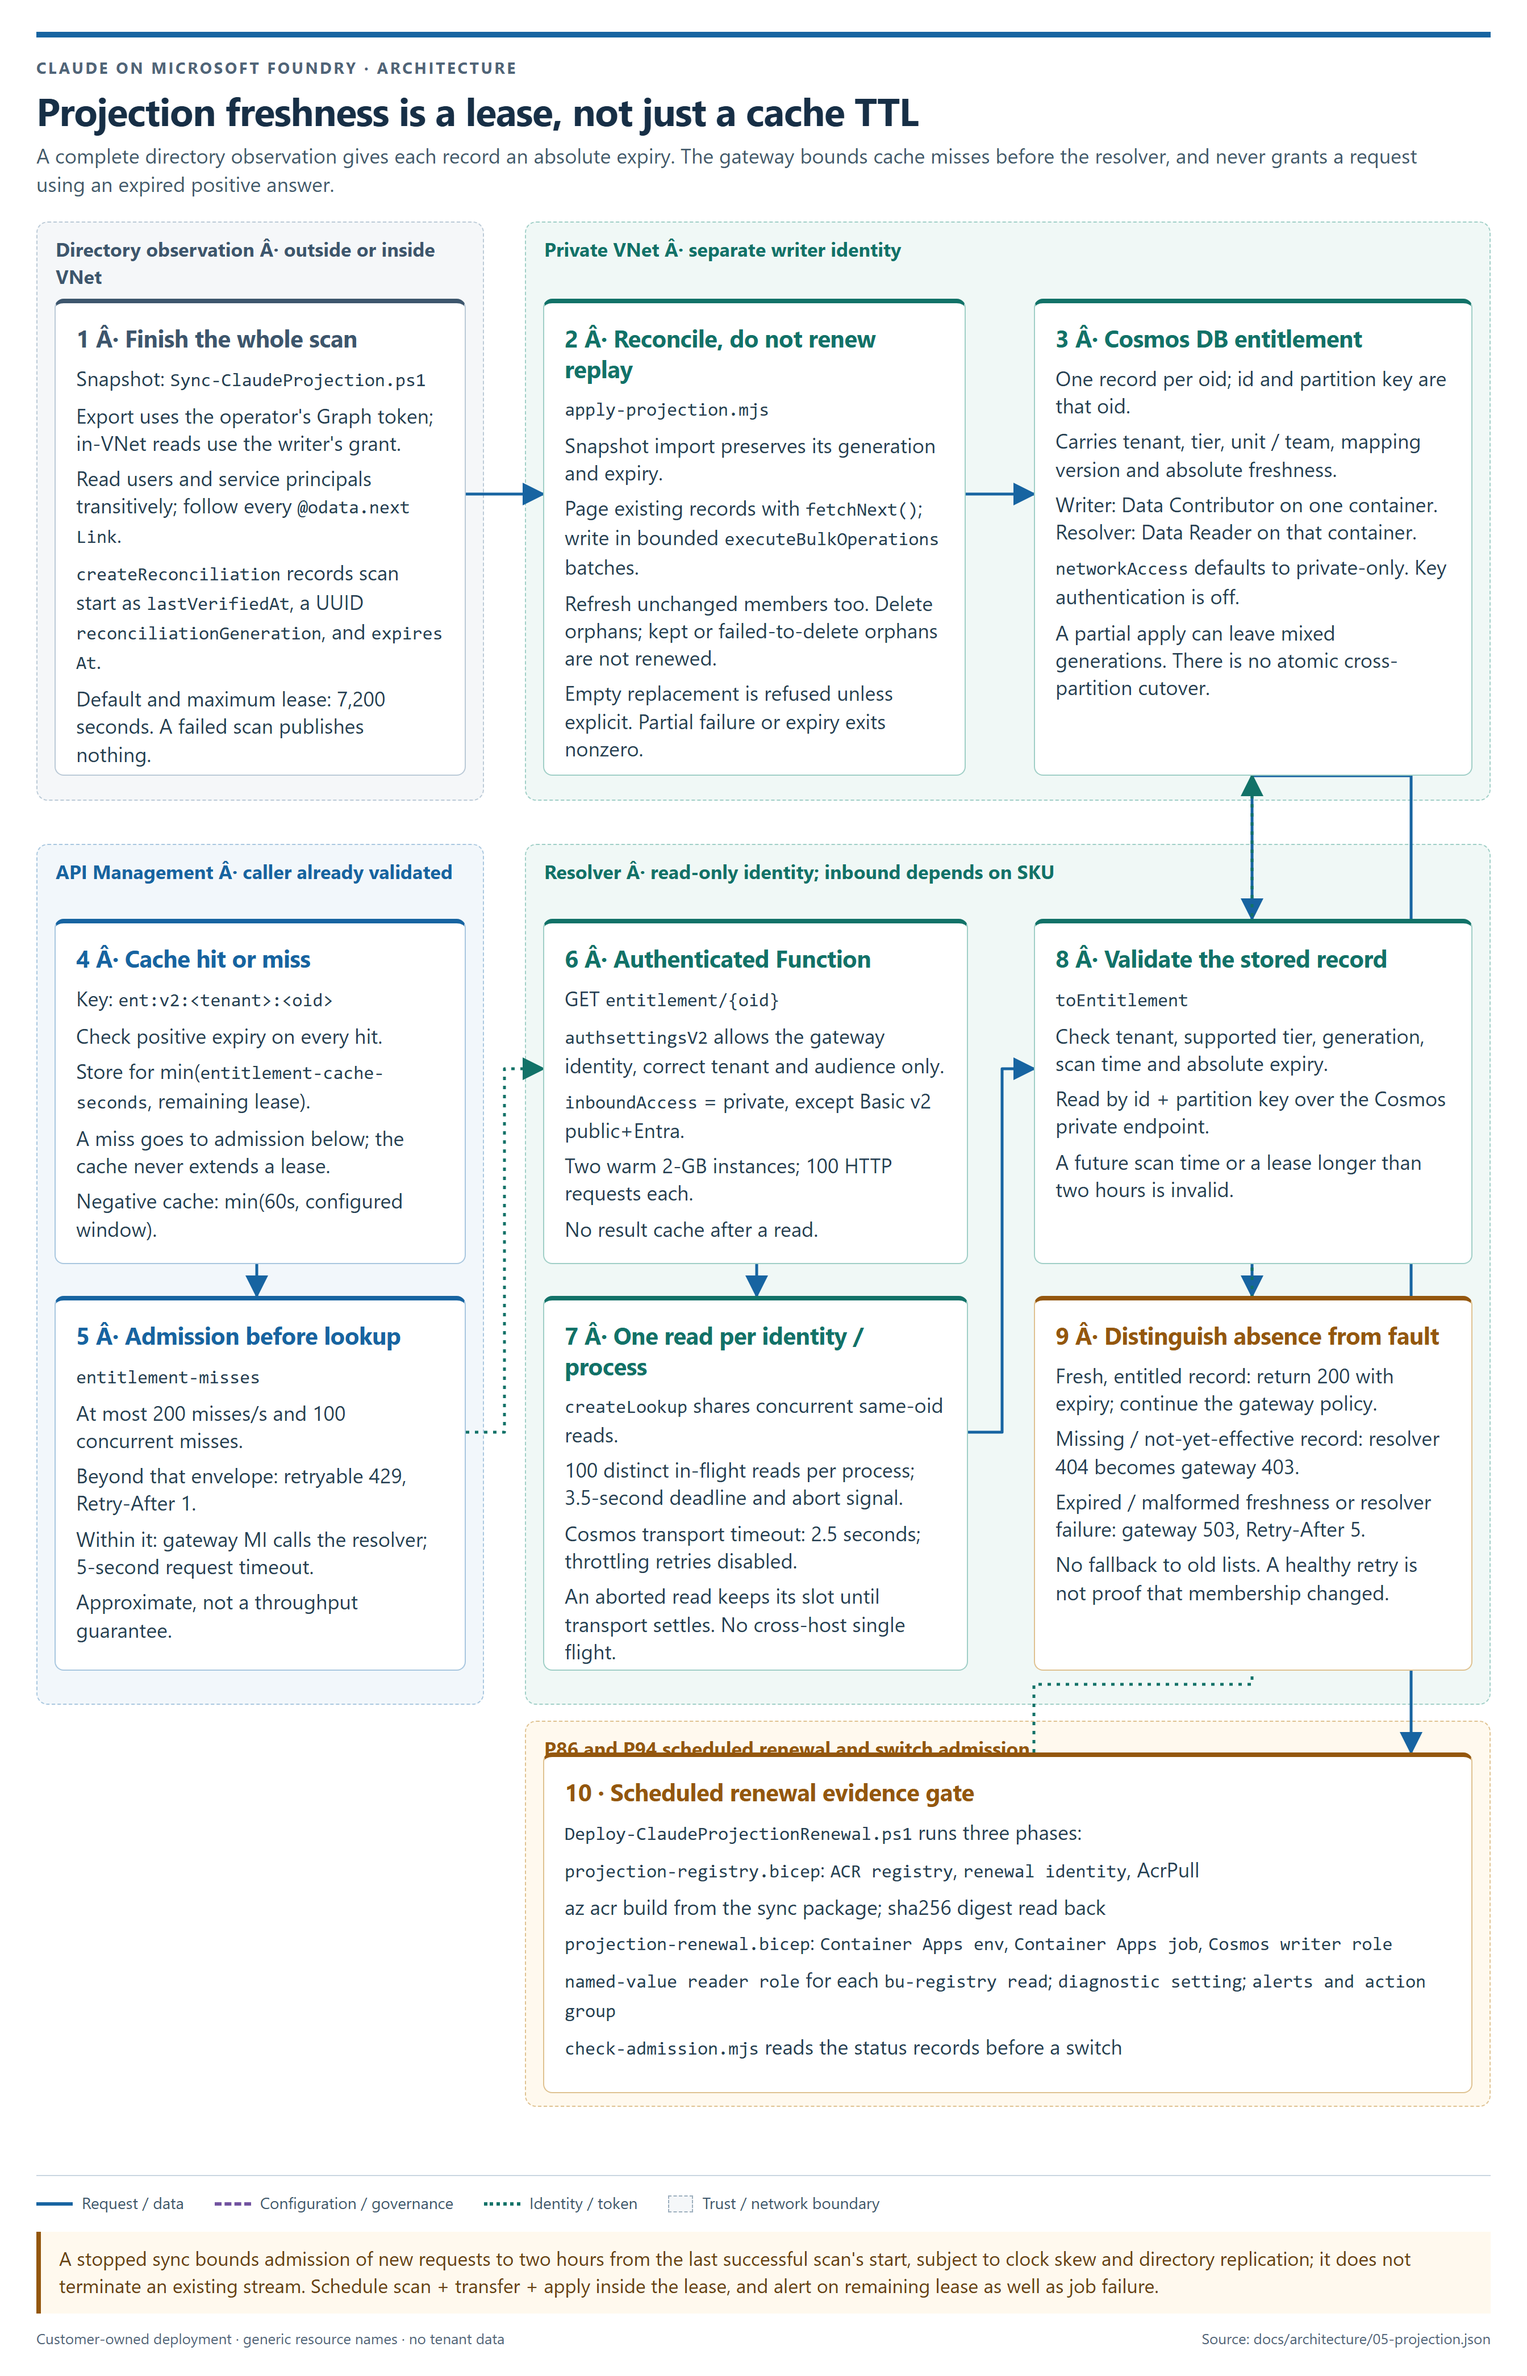
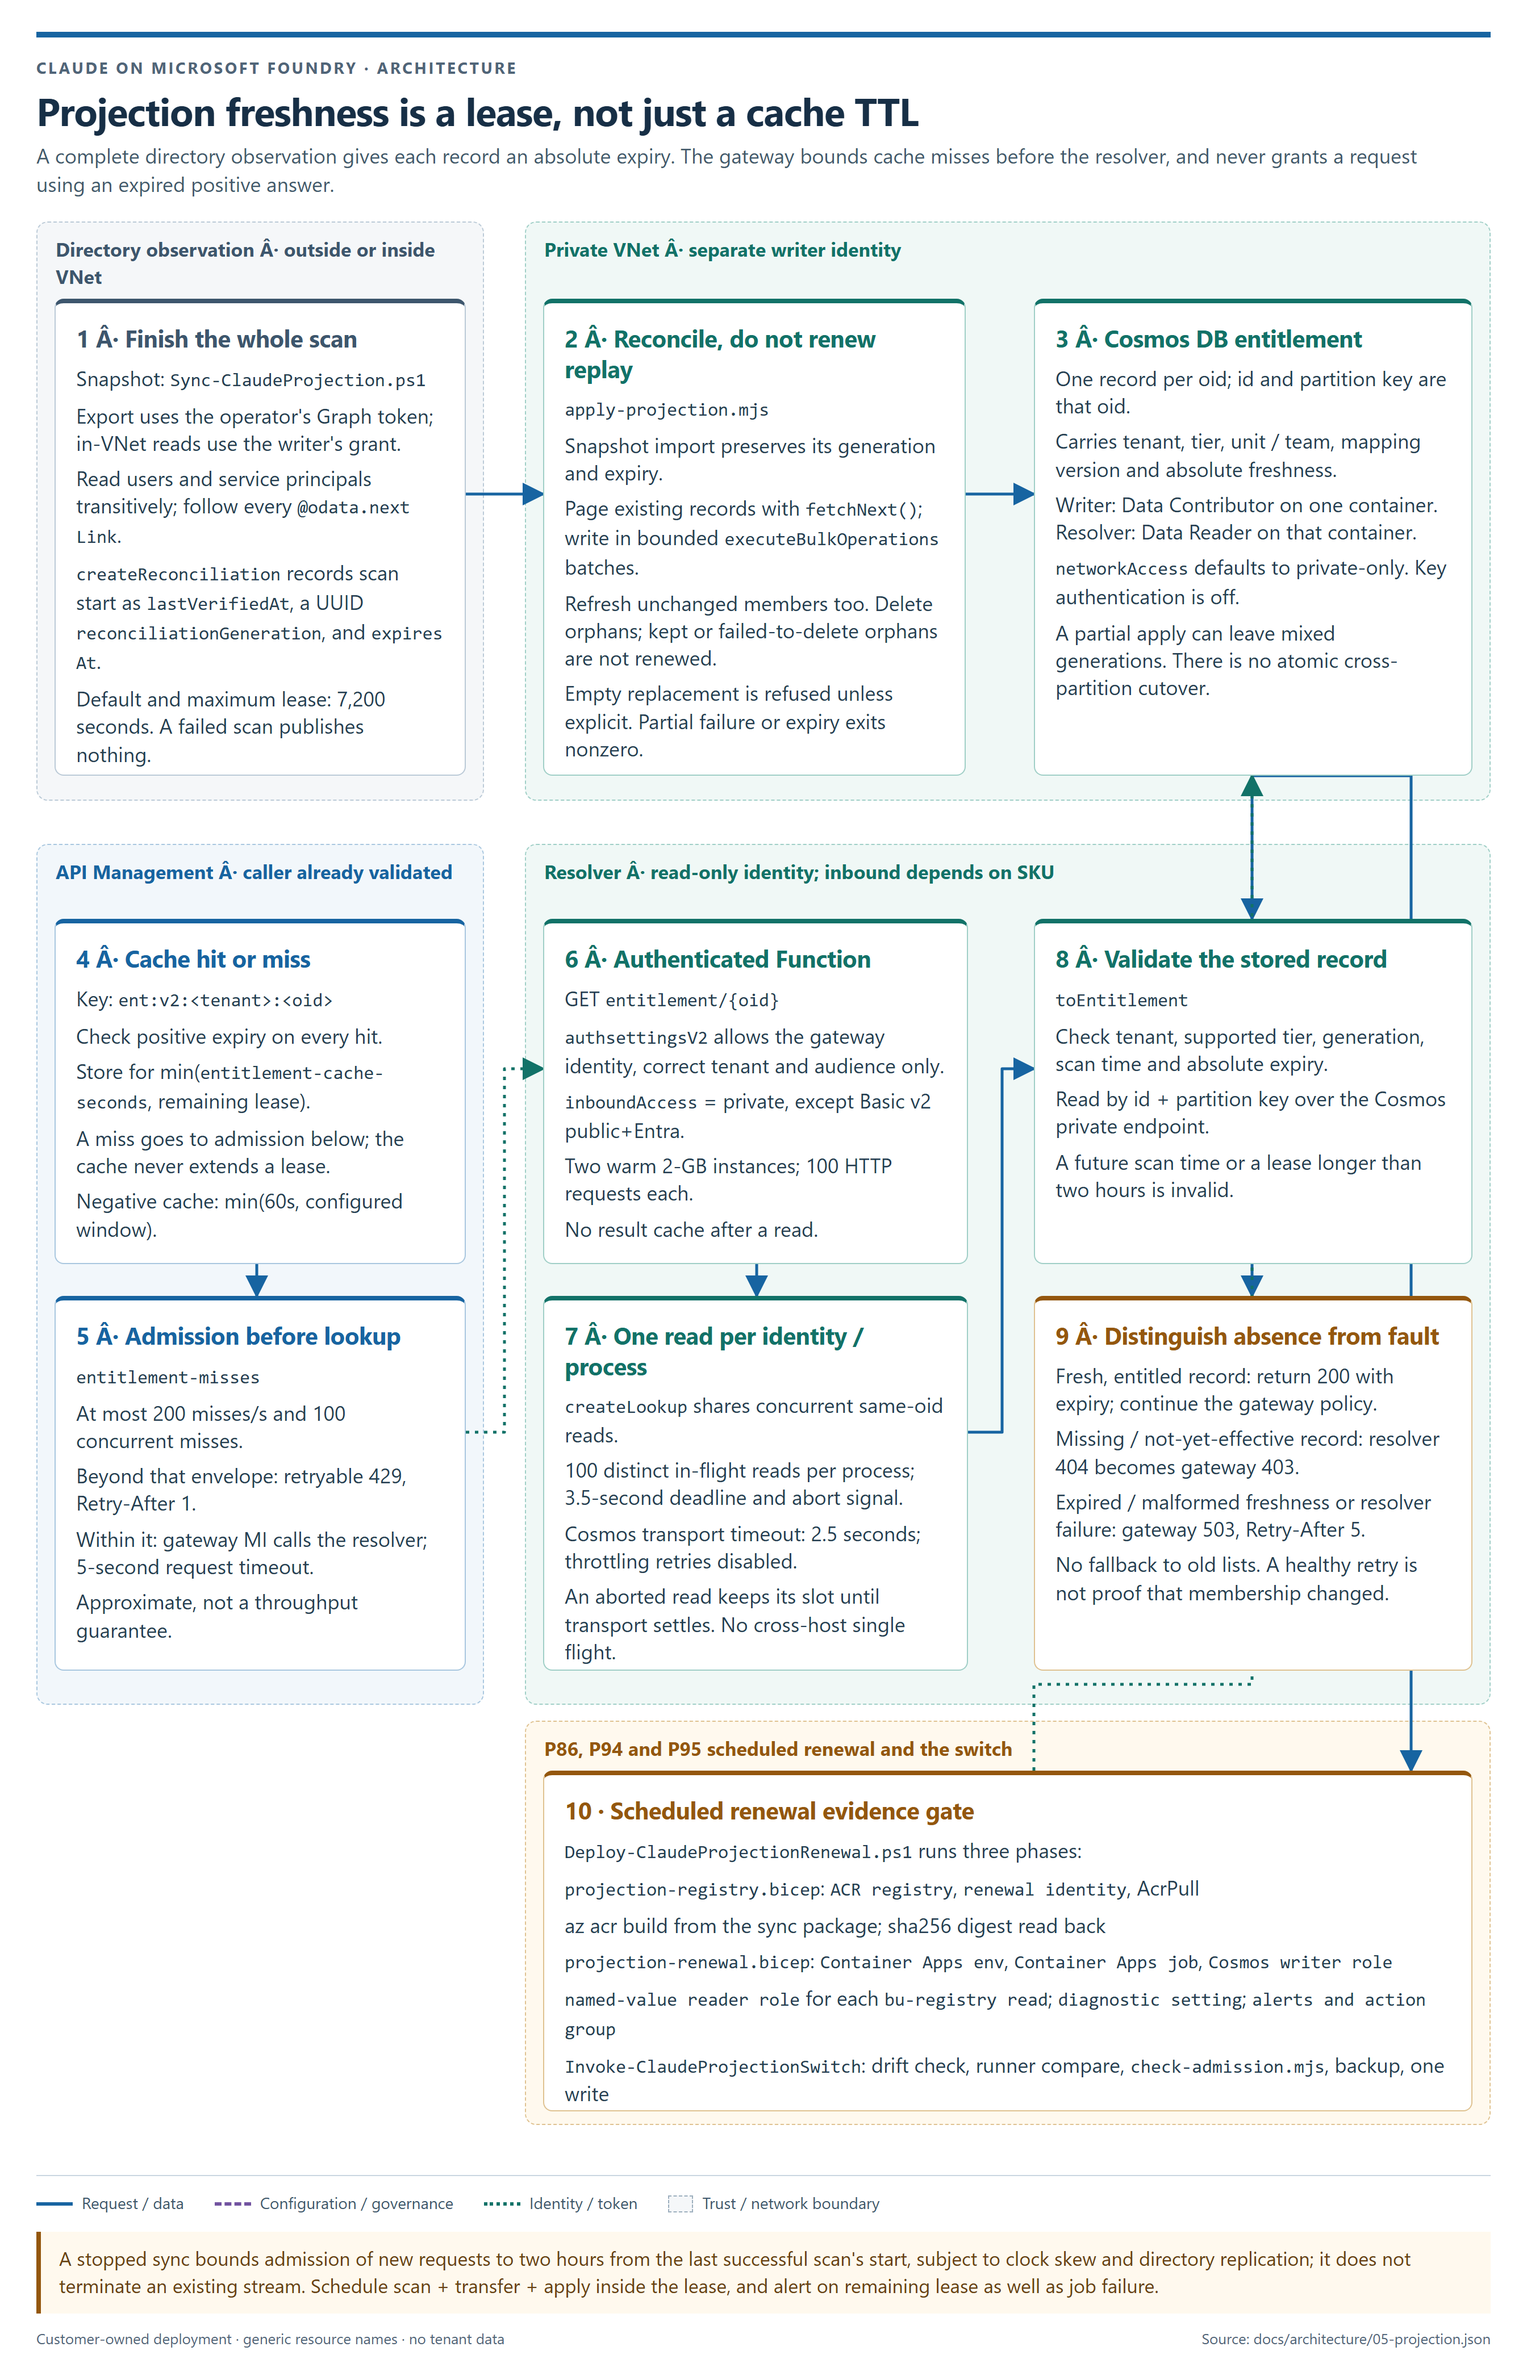
docs(p95): the projection architecture shows the switch
P95 changes the switch's data flow: it reads the renewal receipt, runs
the drift check and a read-only runner compare, reads the action group
and the job through ARM, runs admission, writes a backup and makes one
named-value write. docs/architecture/05-projection.json now lists
scripts/ClaudeProjectionSwitch.ps1 as a source and names
Invoke-ClaudeProjectionSwitch as a code witness in the renewal node;
ARCHITECTURE.md gains the P95 paragraph.

The renewal group's title was drawn under the node's top border (as in
P94's image). The node moves down 16 px, the group grows by 16 px and
the two edges that end on the node follow. Rendered with
node guide/render-architecture.mjs; only projection-freshness.png
changed, and the image was inspected. Test-Architecture passes 36; with
the function renamed in source it fails with IDENTIFIER_MISSING
projection-freshness/switch.

Copilot-Session: aee52ac6-1314-40f4-9675-e225529db617

Changed region(s): [[0.375, 0.7146, 0.9062, 0.9011], [0.9062, 0.7146, 0.9375, 0.7457]]

diff --git a/docs/ARCHITECTURE.md b/docs/ARCHITECTURE.md
@@ -450,6 +450,16 @@ on every run through a named-value read role that `infra/projection-renewal-gate
 grants at the gateway's resource group. The image and the in-network runner use one sync package
 that includes `resolver/src/entitlement.mjs`.
 
+P95 adds the switch ([ADR-0050](adr/0050-projection-switch-function.md)).
+`Invoke-ClaudeProjectionSwitch` in `scripts/ClaudeProjectionSwitch.ps1` takes the receipt that
+`scripts/Deploy-ClaudeProjectionRenewal.ps1` writes. It runs `scripts/Compare-ClaudeEntitlement.ps1
+-FailOnDrift` and a read-only `apply-projection.mjs --compare` in the runner, reads the action group
+and the job definition through ARM, and runs admission over the status records the job wrote under
+its current settings. It then writes the entitlement named values to a backup file and sets
+`entitlement-source` to `projection`. The deployer's `-FlipAfterCleanCompare`, the installer through
+the deployer, and the guided Entitlement step call it, and none of them deploys, publishes or applies
+in switch mode.
+
 Before a resolver call, APIM limits `entitlement-misses` to 200 per second and 100
 concurrent. Excess returns retryable 429. These approximate distributed controls bound
 the admitted burst; they are not a 500,000-user throughput guarantee.
